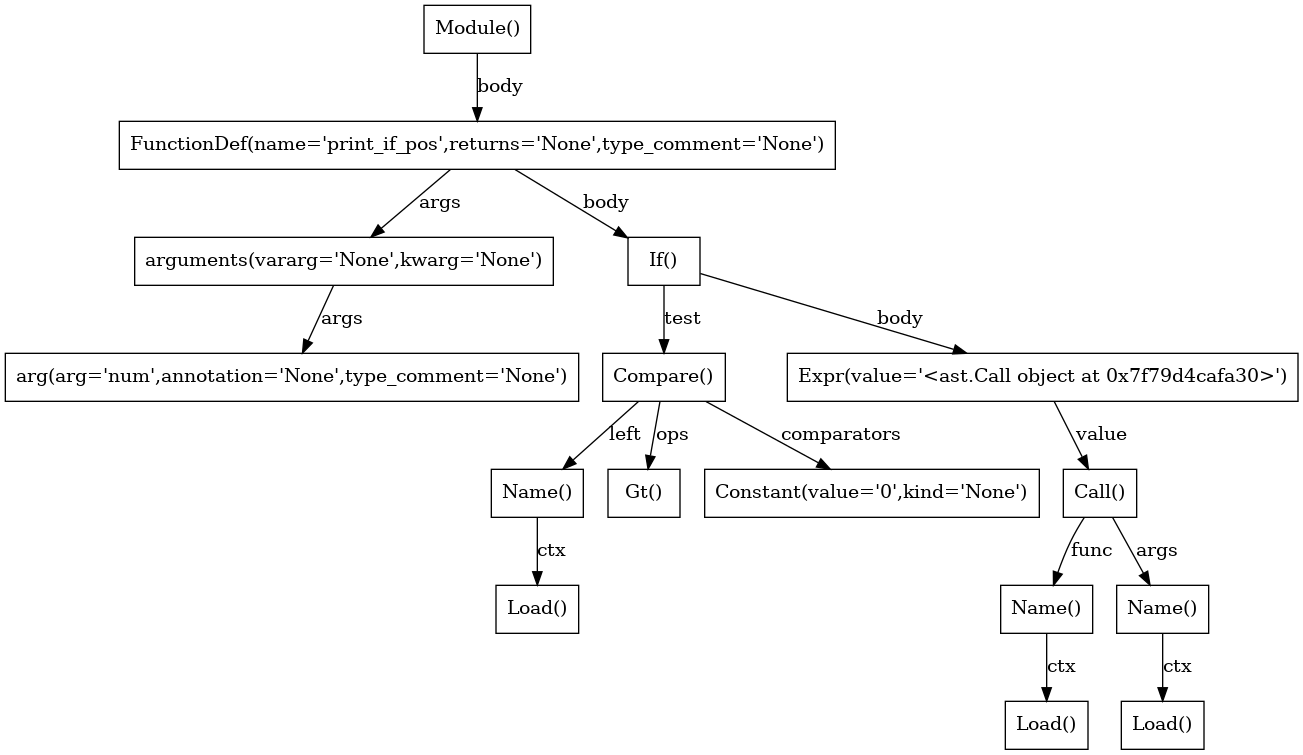
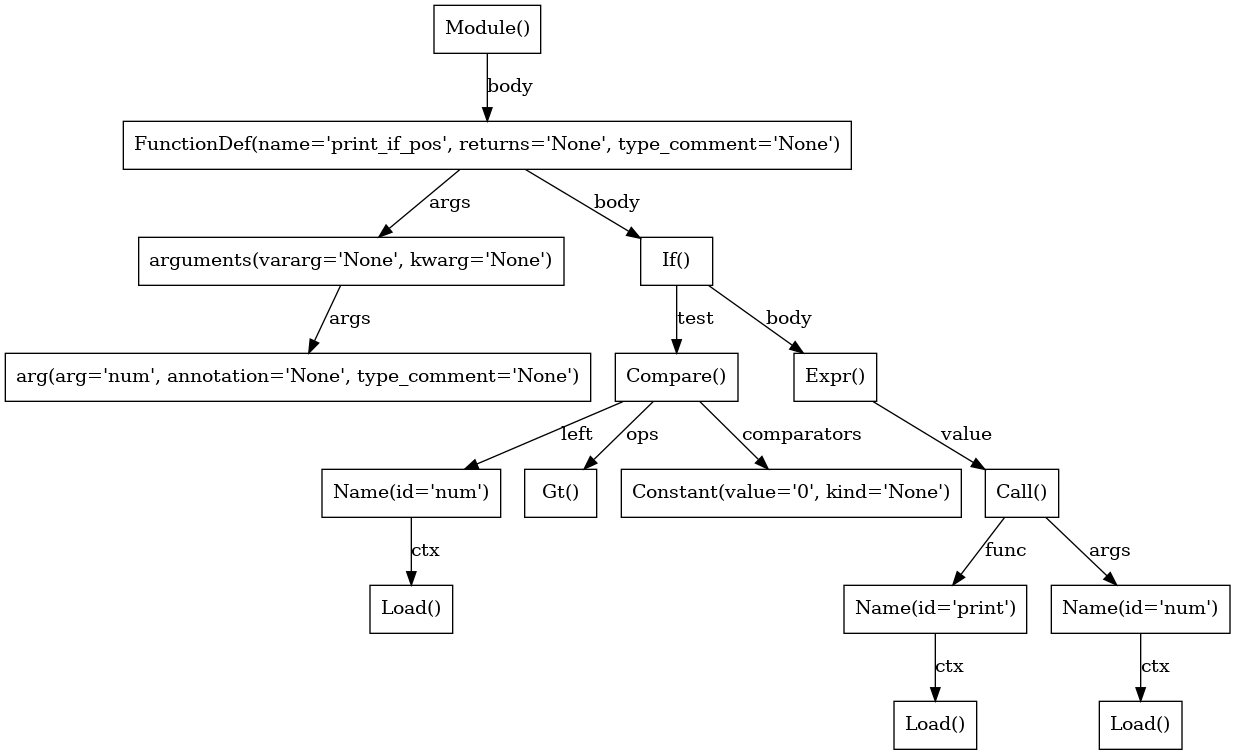
comentarios y presentación

diff --git a/p2/src/ast_utils.py b/p2/src/ast_utils.py
@@ -4,15 +4,16 @@ from ast import (
 )
 from typing import Any
 
-MY_ATTRIBUTES = ["name", "returns", "vararg", "kwarg", 
-"type_comment", "arg", "annotation", "value", "kind",]
+ATTRIBUTES = [
+    "name", "returns", "vararg", "kwarg", "type_comment", "arg", "annotation",
+    "value", "kind", "id",
+]
 
 
 class ASTNestedForCounter(ast.NodeVisitor):
 
     def generic_visit(self, node: AST) -> int:
         maxdepth = 0
-        print(type(node).__name__)
         for _, value in iter_fields(node):
             if isinstance(value, list) and value:
                 maxdepth = max(
@@ -43,43 +44,33 @@ class ASTDotVisitor(ast.NodeVisitor):
     def generic_visit(self, node: AST) -> Any:
         self.idcounter = 0
         print("digraph {")
-        print(
-            's{}[label="{}({})", shape=box]'.
-            format(
-                self.idcounter, type(node).__name__, self.my_vars(node)
-            )
-        )
         self.rec_visit(node)
         print("}")
 
     def rec_visit(self, node: AST) -> None:
         pid = self.idcounter
-        
-        for field, value in iter_fields(node):
-            if isinstance(value, list) and value:
-                for item in value:
-                    self.print_item(field, item, pid)
-
-            elif isinstance(value, AST):
-                self.print_item(field, value, pid)
-
-    def print_item(self, field: str, node: AST, pid: int) -> Any:
-
-        self.idcounter += 1
         print(
             's{}[label="{}({})", shape=box]'.
             format(
                 self.idcounter, type(node).__name__, self.my_vars(node)
             )
         )
-        print(
-            f's{pid} -> s{self.idcounter}[label="{field}"]'
-        )
+
+        for field, value in iter_fields(node):
+            if isinstance(value, list) and value:
+                for item in value:
+                    self.print_item(field, item, pid)
+            elif isinstance(value, AST):
+                self.print_item(field, value, pid)
+
+    def print_item(self, field: str, node: AST, pid: int) -> Any:
+        self.idcounter += 1
+        print(f's{pid} -> s{self.idcounter}[label="{field}"]')
         self.rec_visit(node)
 
     def my_vars(self, object: Any) -> str:
-        return ",".join(
+        return ", ".join(
             f"{key}='{value}'"
             for key, value in vars(object).items()
-            if key in MY_ATTRIBUTES
+            if not isinstance(value, (ast.AST, list)) and key in ATTRIBUTES
         )

diff --git a/p2/src/test/ej1.py b/p2/src/test/ej1.py
@@ -13,7 +13,8 @@ pics_dir: str = ''
 
 def set_up() -> None:
     global pics_dir
-    pics_dir = os.path.dirname(os.path.realpath(__file__)) + '/../../pics/'
+    pics_dir = os.path.dirname(os.path.realpath(__file__))
+    pics_dir = pics_dir[:pics_dir.rfind('p2') + 2] + '/pics/'
     if not os.path.exists(pics_dir):
         os.makedirs(pics_dir)
 
@@ -40,24 +41,25 @@ def print_if_pos(num):
 
 
 def main_a() -> None:
-
+    print("##################################################################")
     print("Beginning exercise 1, (a) ...")
     counter = ASTNestedForCounter()
+
     source = inspect.getsource(fun1)
     my_ast = ast.parse(source)
-    print("Maximum number of nested for loops:", counter.visit(my_ast))
+    maxdepth = counter.visit(my_ast)
+    assert maxdepth == 1, f"fun1: Expected 1, got {maxdepth}"
 
-    # Should print 1
     source = inspect.getsource(fun2)
     my_ast = ast.parse(source)
-    print("Maximum number of nested for loops:", counter.visit(my_ast))
-    # Should print 3
+    maxdepth = counter.visit(my_ast)
+    assert maxdepth == 3, f"fun2: Expected 3, got {maxdepth}"
 
-    print("Ending exercise 1, (a)")
+    print("Ending exercise 1, (a). Everything is OK.")
 
 
 def main_b() -> None:
-
+    print("##################################################################")
     print("Beginning exercise 1, (b) ...")
     counter = ASTDotVisitor()
     source = inspect.getsource(print_if_pos)
@@ -66,14 +68,14 @@ def main_b() -> None:
     with RedirectedStdout() as out:
         counter.visit(my_ast)
 
-    print(out)
+    # print(out)
     graph, = pydot.graph_from_dot_data(str(out))
     graph.write_png(pics_dir + 'ex1b.png')
 
-    print("Ending exercise 1, (b)")
+    print(f"Ending exercise 1, (b). Output written to {pics_dir}ex1b.png")
 
 
 if __name__ == '__main__':
     set_up()
-    # main_a()
+    main_a()
     main_b()

diff --git a/p2/src/test/redirect_stdout.py b/p2/src/test/redirect_stdout.py
@@ -3,6 +3,9 @@ from io import StringIO
 
 
 class RedirectedStdout:
+    '''
+    https://stackoverflow.com/a/45899925
+    '''
     def __init__(self):
         self._stdout = None
         self._string_io = None
